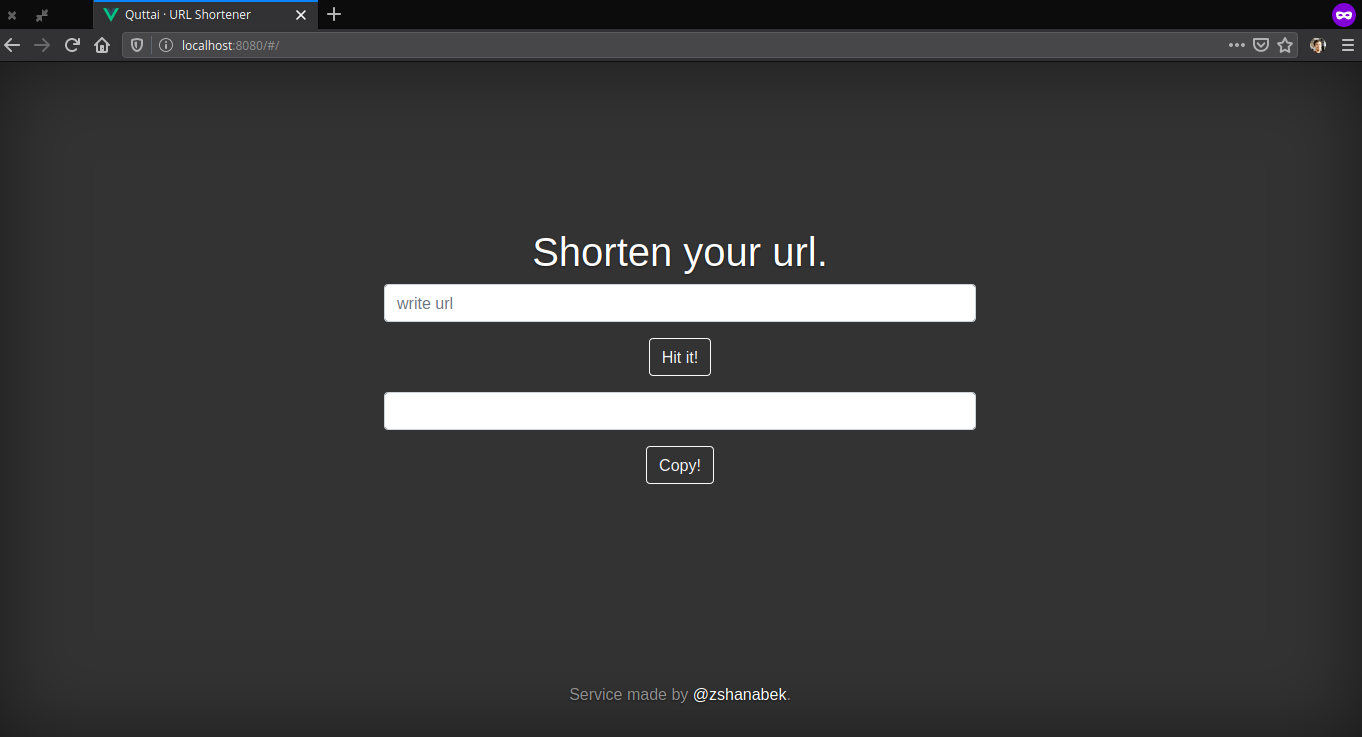
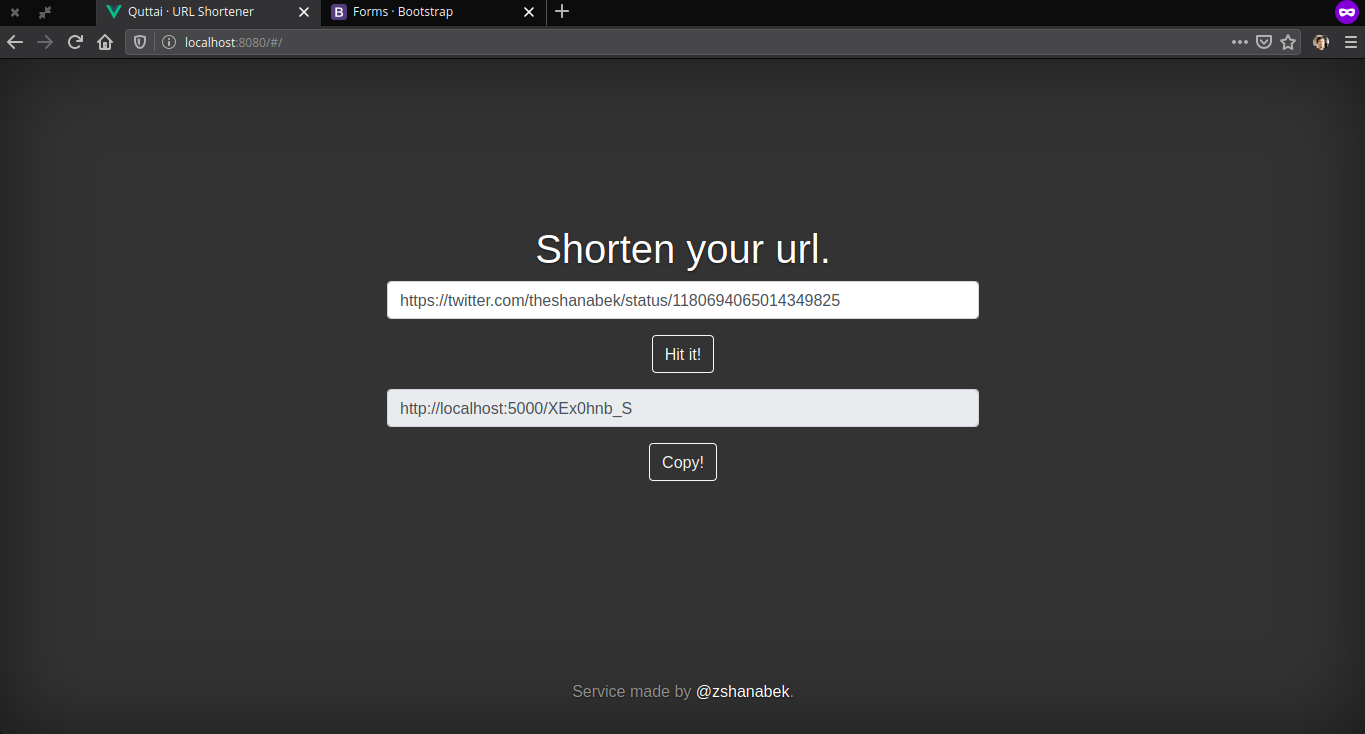
input readonly

diff --git a/server/controllers/apiController.js b/server/controllers/apiController.js
@@ -18,10 +18,10 @@ module.exports = app => {
             if (err) return console.error(err);
             console.log(obj.url + ' is saved')
         });
-        res.status(200).json({ success: true, url: `${baseUrl}/api/items/${code}` });
+        res.status(200).json({ success: true, url: `${baseUrl}/${code}` });
     });
 
-    app.get("/api/items/:code", async (req, res) => {
+    app.get("/:code", async (req, res) => {
         const { code } = req.params;
         const item = await db.findOne({ code });
         if (!item) {

diff --git a/client/src/components/Shortener.vue b/client/src/components/Shortener.vue
@@ -22,6 +22,7 @@
           class="form-control mt-3"
           type="text"
           v-model="message.url"
+          readonly
         >
         <button
           class="btn btn-outline-light mt-3"
